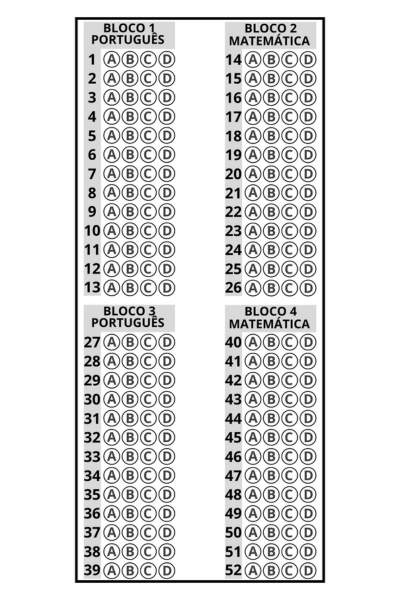
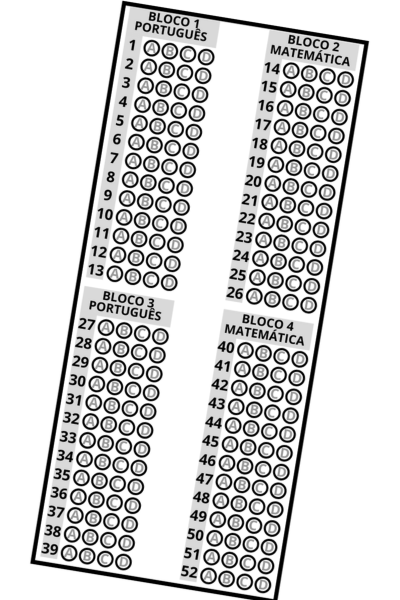
OK

diff --git a/Leitor_de_Gabaritos/main.py b/Leitor_de_Gabaritos/main.py
@@ -6,6 +6,7 @@ os.system("cls")
 
 
 usar_webcam = False  # Defina como True para usar a webcam
+questoes = []
 
 if usar_webcam:
     # Inicialize a captura de vídeo a partir da webcam (0 é geralmente a câmera padrão)
@@ -27,9 +28,9 @@ if (usar_webcam and captura.isOpened()) or (not usar_webcam and img is not None)
         # Extrai o gabarito da imagem
         gabarito, bbox = extrairGabarito.extrairMaiorCtn(frame)
         if gabarito is not None:    # Verifica se o gabarito foi encontrado
-            contorno, bbox2, gabTh = extrairGabarito.perspectivaCB(gabarito)
+            contorno, bbox2 = extrairGabarito.perspectivaCB(gabarito)
             if contorno is not None:    # Mostra o que esta sendo identificado como quadrado
-                cv2.drawContours(gabarito, [bbox2], -1, (255, 0, 0), 2)
+                # cv2.drawContours(gabarito, [bbox2], -1, (255, 0, 0), 2)
 
                 # Converte a imagem para tons de cinza
                 imgCinza = cv2.cvtColor(contorno, cv2.COLOR_BGR2GRAY)
@@ -43,14 +44,23 @@ if (usar_webcam and captura.isOpened()) or (not usar_webcam and img is not None)
 
                 imgTh = imgTh1
 
-                questaoCnts, gabTh = extrairGabarito.questoes(imgTh)
-                if questaoCnts is not None:
-                    for c in questaoCnts:
-                        cv2.drawContours(contorno, [c], -1, (0, 255, 0), 2)
+                questaoCnts = extrairGabarito.questoes(imgTh)
+                # print(questaoCnts)
+                # if questaoCnts is not None:
+                #     for c in questaoCnts:
+                #         cv2.drawContours(contorno, [c], -1, (0, 255, 0), 2)
+                
+                
+                registrar = cv2.waitKey(13)
+                if registrar == 13:
+                    
+                    # print(questoes)
+                    for c in questoes:
+                        cv2.drawContours(contorno, c, -1, (0, 0, 255), 2)
 
             # Desenha o retângulo do gabarito
             # cv2.rectangle(
-            #     frame, (bbox[0], bbox[1]), (bbox[0] + bbox[2], bbox[1] + bbox[3]), (255, 0, 0), 3)
+                # frame, (bbox[0], bbox[1]), (bbox[0] + bbox[2], bbox[1] + bbox[3]), (255, 0, 0), 3)
 
         cv2.imshow("Video da Webcam", frame)
         cv2.moveWindow("Video da Webcam", 0, 0)
@@ -58,7 +68,7 @@ if (usar_webcam and captura.isOpened()) or (not usar_webcam and img is not None)
         # cv2.imshow("Video da Webcam Gabaritos", gabarito)
         if contorno is not None:
             cv2.imshow("Video da Webcam Gabarito", contorno)
-            cv2.imshow("Video da Webcam Cinza", gabTh)
+            cv2.imshow("Video da Webcam Cinza", imgTh)
 
         sair = cv2.waitKey(1)
         if sair == 27:

diff --git a/Leitor_de_Gabaritos/extrairGabarito.py b/Leitor_de_Gabaritos/extrairGabarito.py
@@ -21,7 +21,7 @@ def extrairMaiorCtn(img):
         x, y, w, h = max(x, 0), max(y, 0), max(w, 0), max(h, 0)
         bbox = [x, y, w, h]
         recorte = img[y:y+h, x:x+w]
-        recorte = cv2.resize(recorte, (300, 550))
+        # recorte = cv2.resize(recorte, (300, 550))
         return recorte, bbox
     else:
         return None, None  # Retorna valores nulos quando não há contornos
@@ -46,9 +46,9 @@ def perspectivaCB(img):
                 warped = four_point_transform(cinza, bbox2.reshape(4, 2))
                 corte = cv2.resize(corte, (300, 550))
     if bbox2 is not None:
-        return corte, bbox2, warped
+        return corte, bbox2
     else:
-        return None, None, None
+        return None, None
 
 def questoes(gabTh):
     # gabTh = cv2.threshold(gabTh, 0, 255, cv2.THRESH_BINARY_INV | cv2.THRESH_OTSU)[1]
@@ -58,6 +58,6 @@ def questoes(gabTh):
     for c in cnts:
         (x, y, w, h) = cv2.boundingRect(c)
         ar = w / float(h)
-        if w >= 20 and h >= 20 and ar >= 0.9 and ar <= 1.1:
+        if w >= 13 and h >= 13 and ar >= 0.9 and ar <= 3.3:
             questaoCnts.append(c)
-    return questaoCnts, gabTh
+    return questaoCnts
